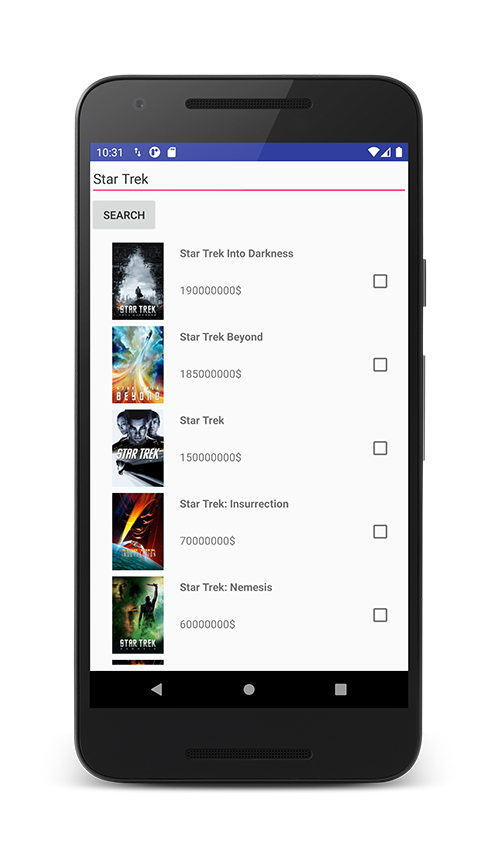
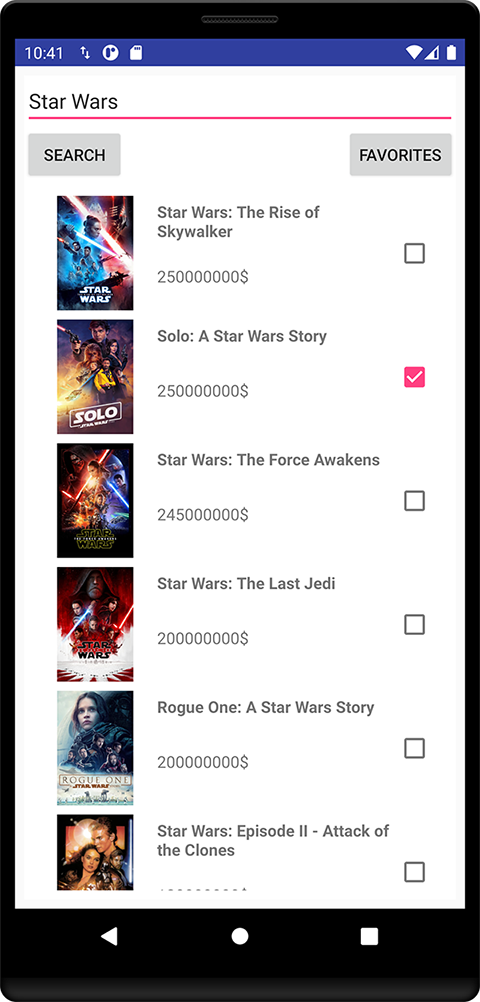
Update readme

diff --git a/README.md b/README.md
@@ -1,12 +1,15 @@
-# MovieBudget application uses themoviedb.org API to fetch information about movies or series.
+# MovieBudget application.
 
 This project's main purpose is to demonstrate the MVP pattern with dependency injection in Android environment with a minimal UI.
 
-Functions:
+The app has 2 screens:
 
-This is a single page application which has a text input, where the users can type a word which is a full or a part of a movie title. After clicking on search button, the application fetches 3 pages of matching movies from the "TheMovieDb" and shows it in a list  - listitem: title, price, cover image, checkbox -  to the user ordered by price, and highest price first. On the result list the user can mark movies as favorites (with a tick mark) and these favorites should be remembered and indicated in case the movie is presented again. The user can also remove movie(s) from favorites by unticking the item.
+1. Search page: which has a text input, where the users can type a word which is a full or a part of a movie title. After clicking on search button, the application fetches 3 pages of matching movies from the "TheMovieDb" and shows it in a list  - listitem: title, price, cover image, checkbox -  to the user ordered by price, and highest price first. On the result list the user can mark movies as favorites (with a tick mark) and these favorites should be remembered and indicated in case the movie is presented again. The user can also remove movie(s) from favorites by unticking the item from the search wiew.
 
-Request your apy key here: https://developers.themoviedb.org/3
+2. Favorite page: which lists the favorite movies in a list, ordered by title.
+
+The MovieBudget application uses themoviedb.org API to fetch information about movies or series.
+Request your api key here: https://developers.themoviedb.org/3
 
 Used libraries: 
 - AndroidX
